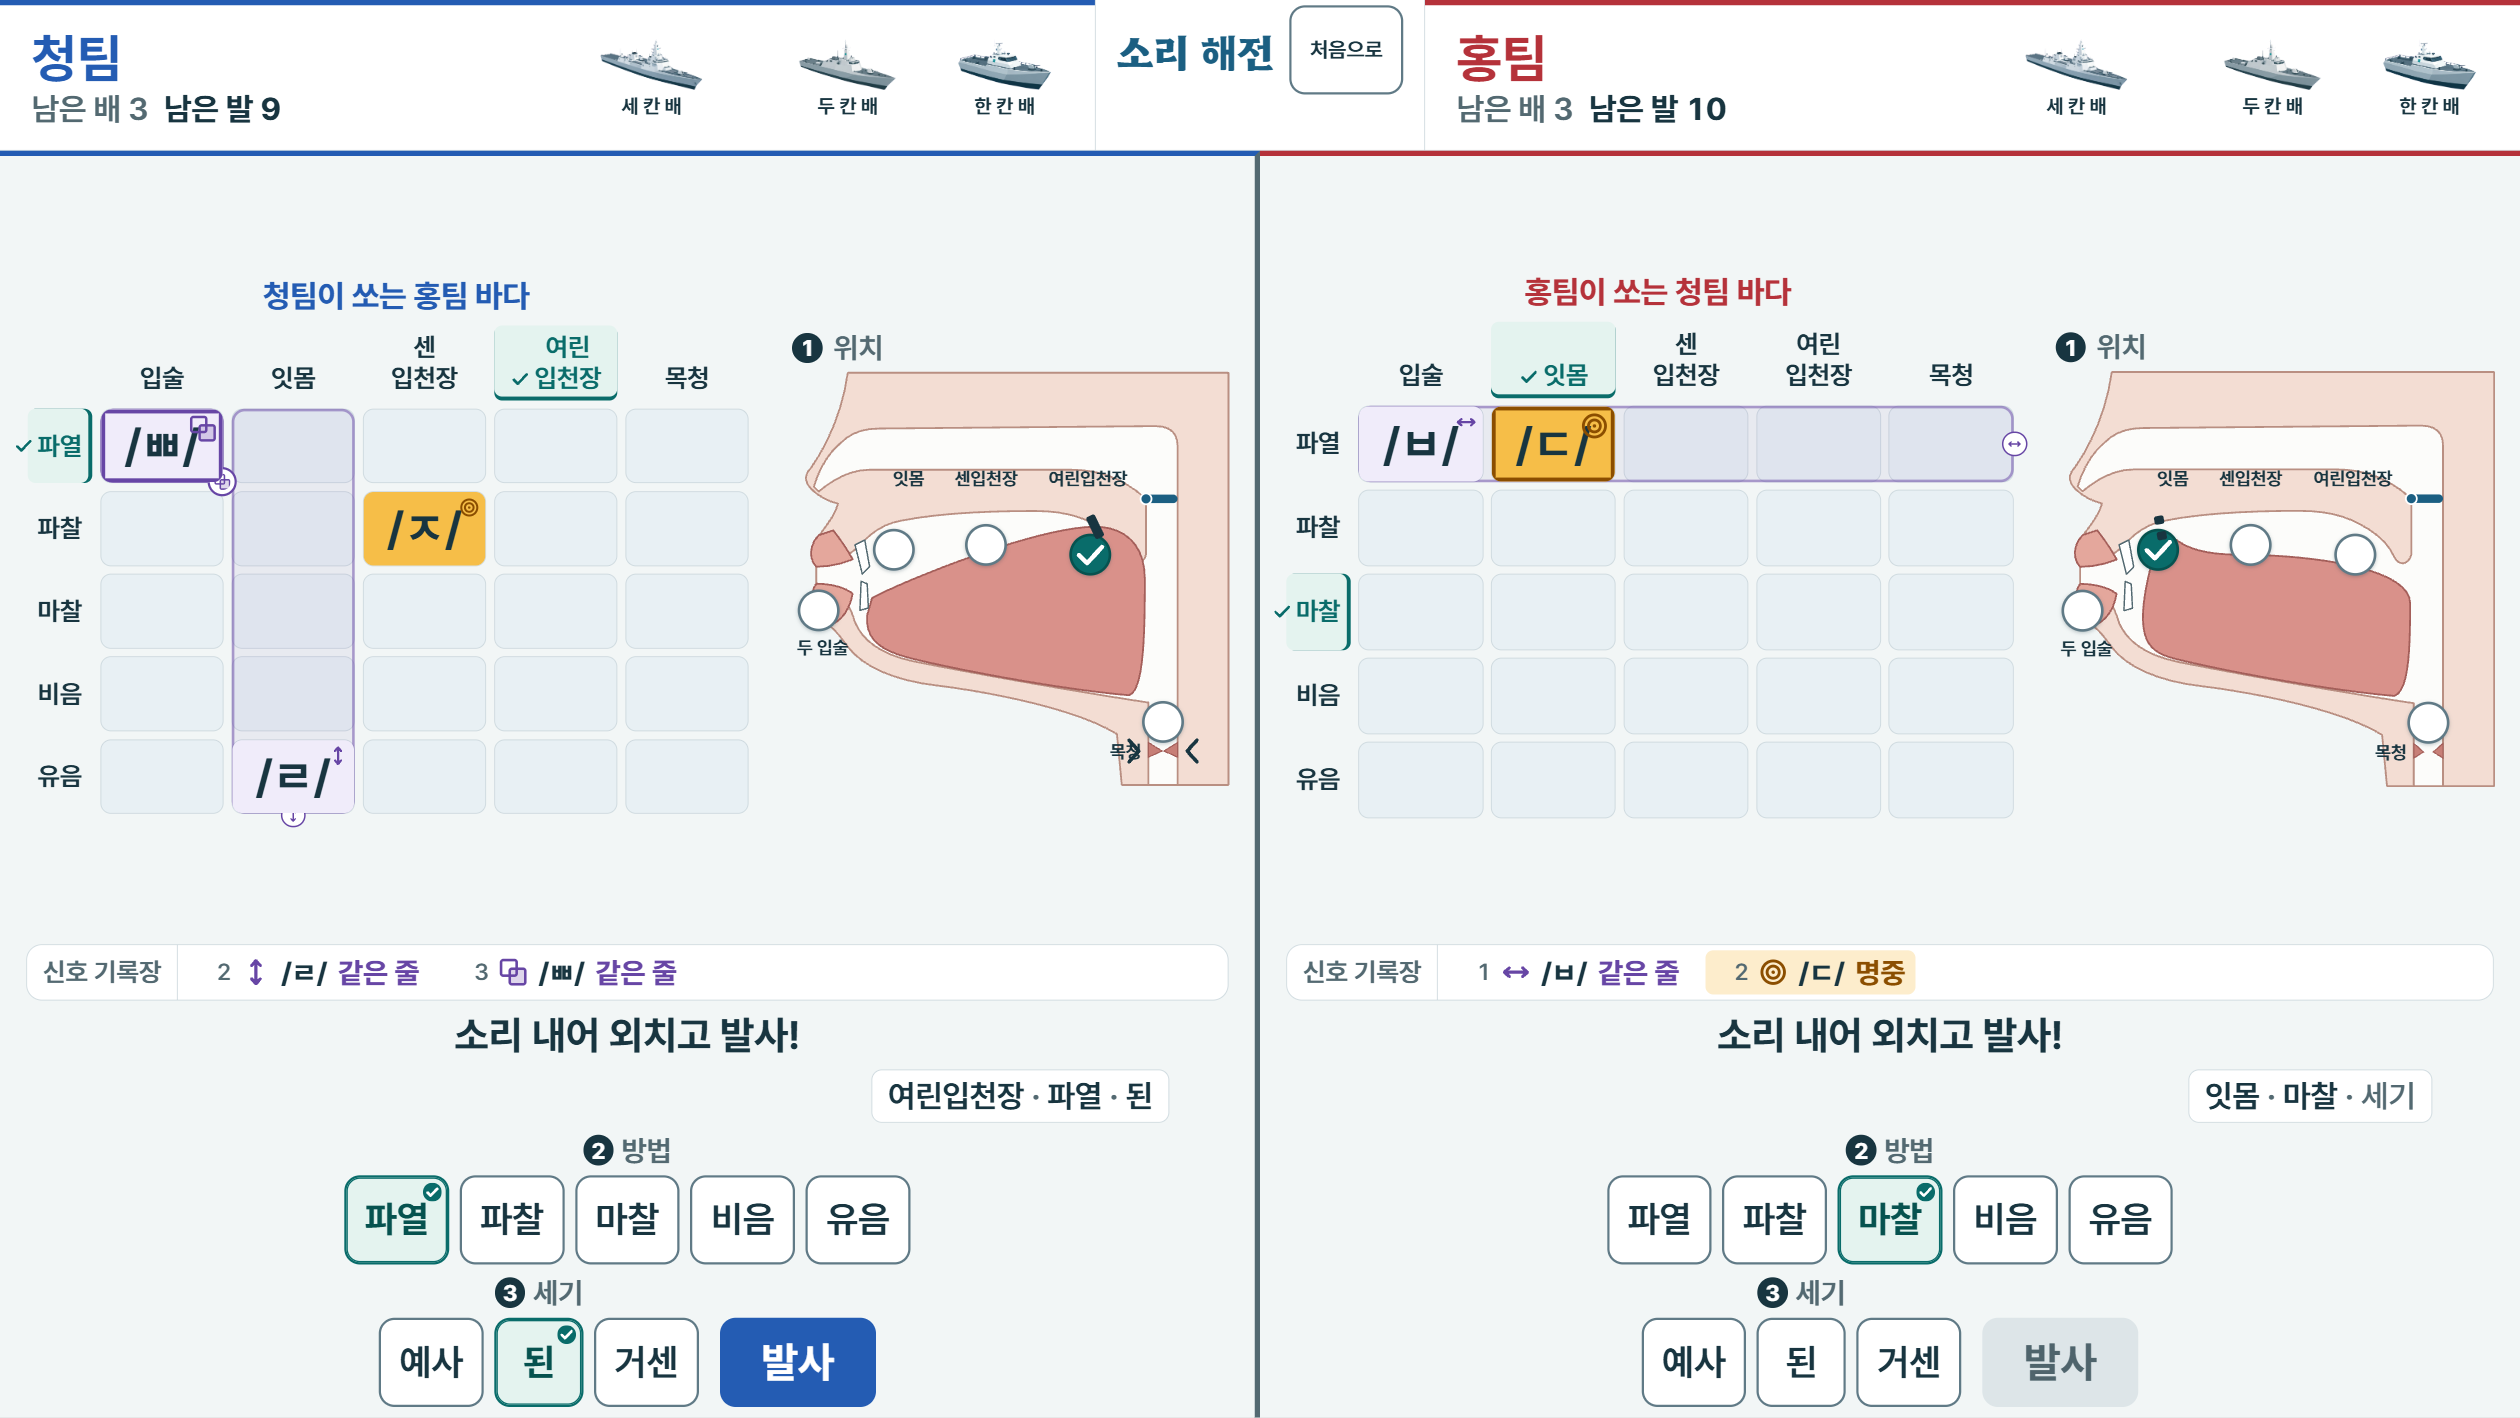
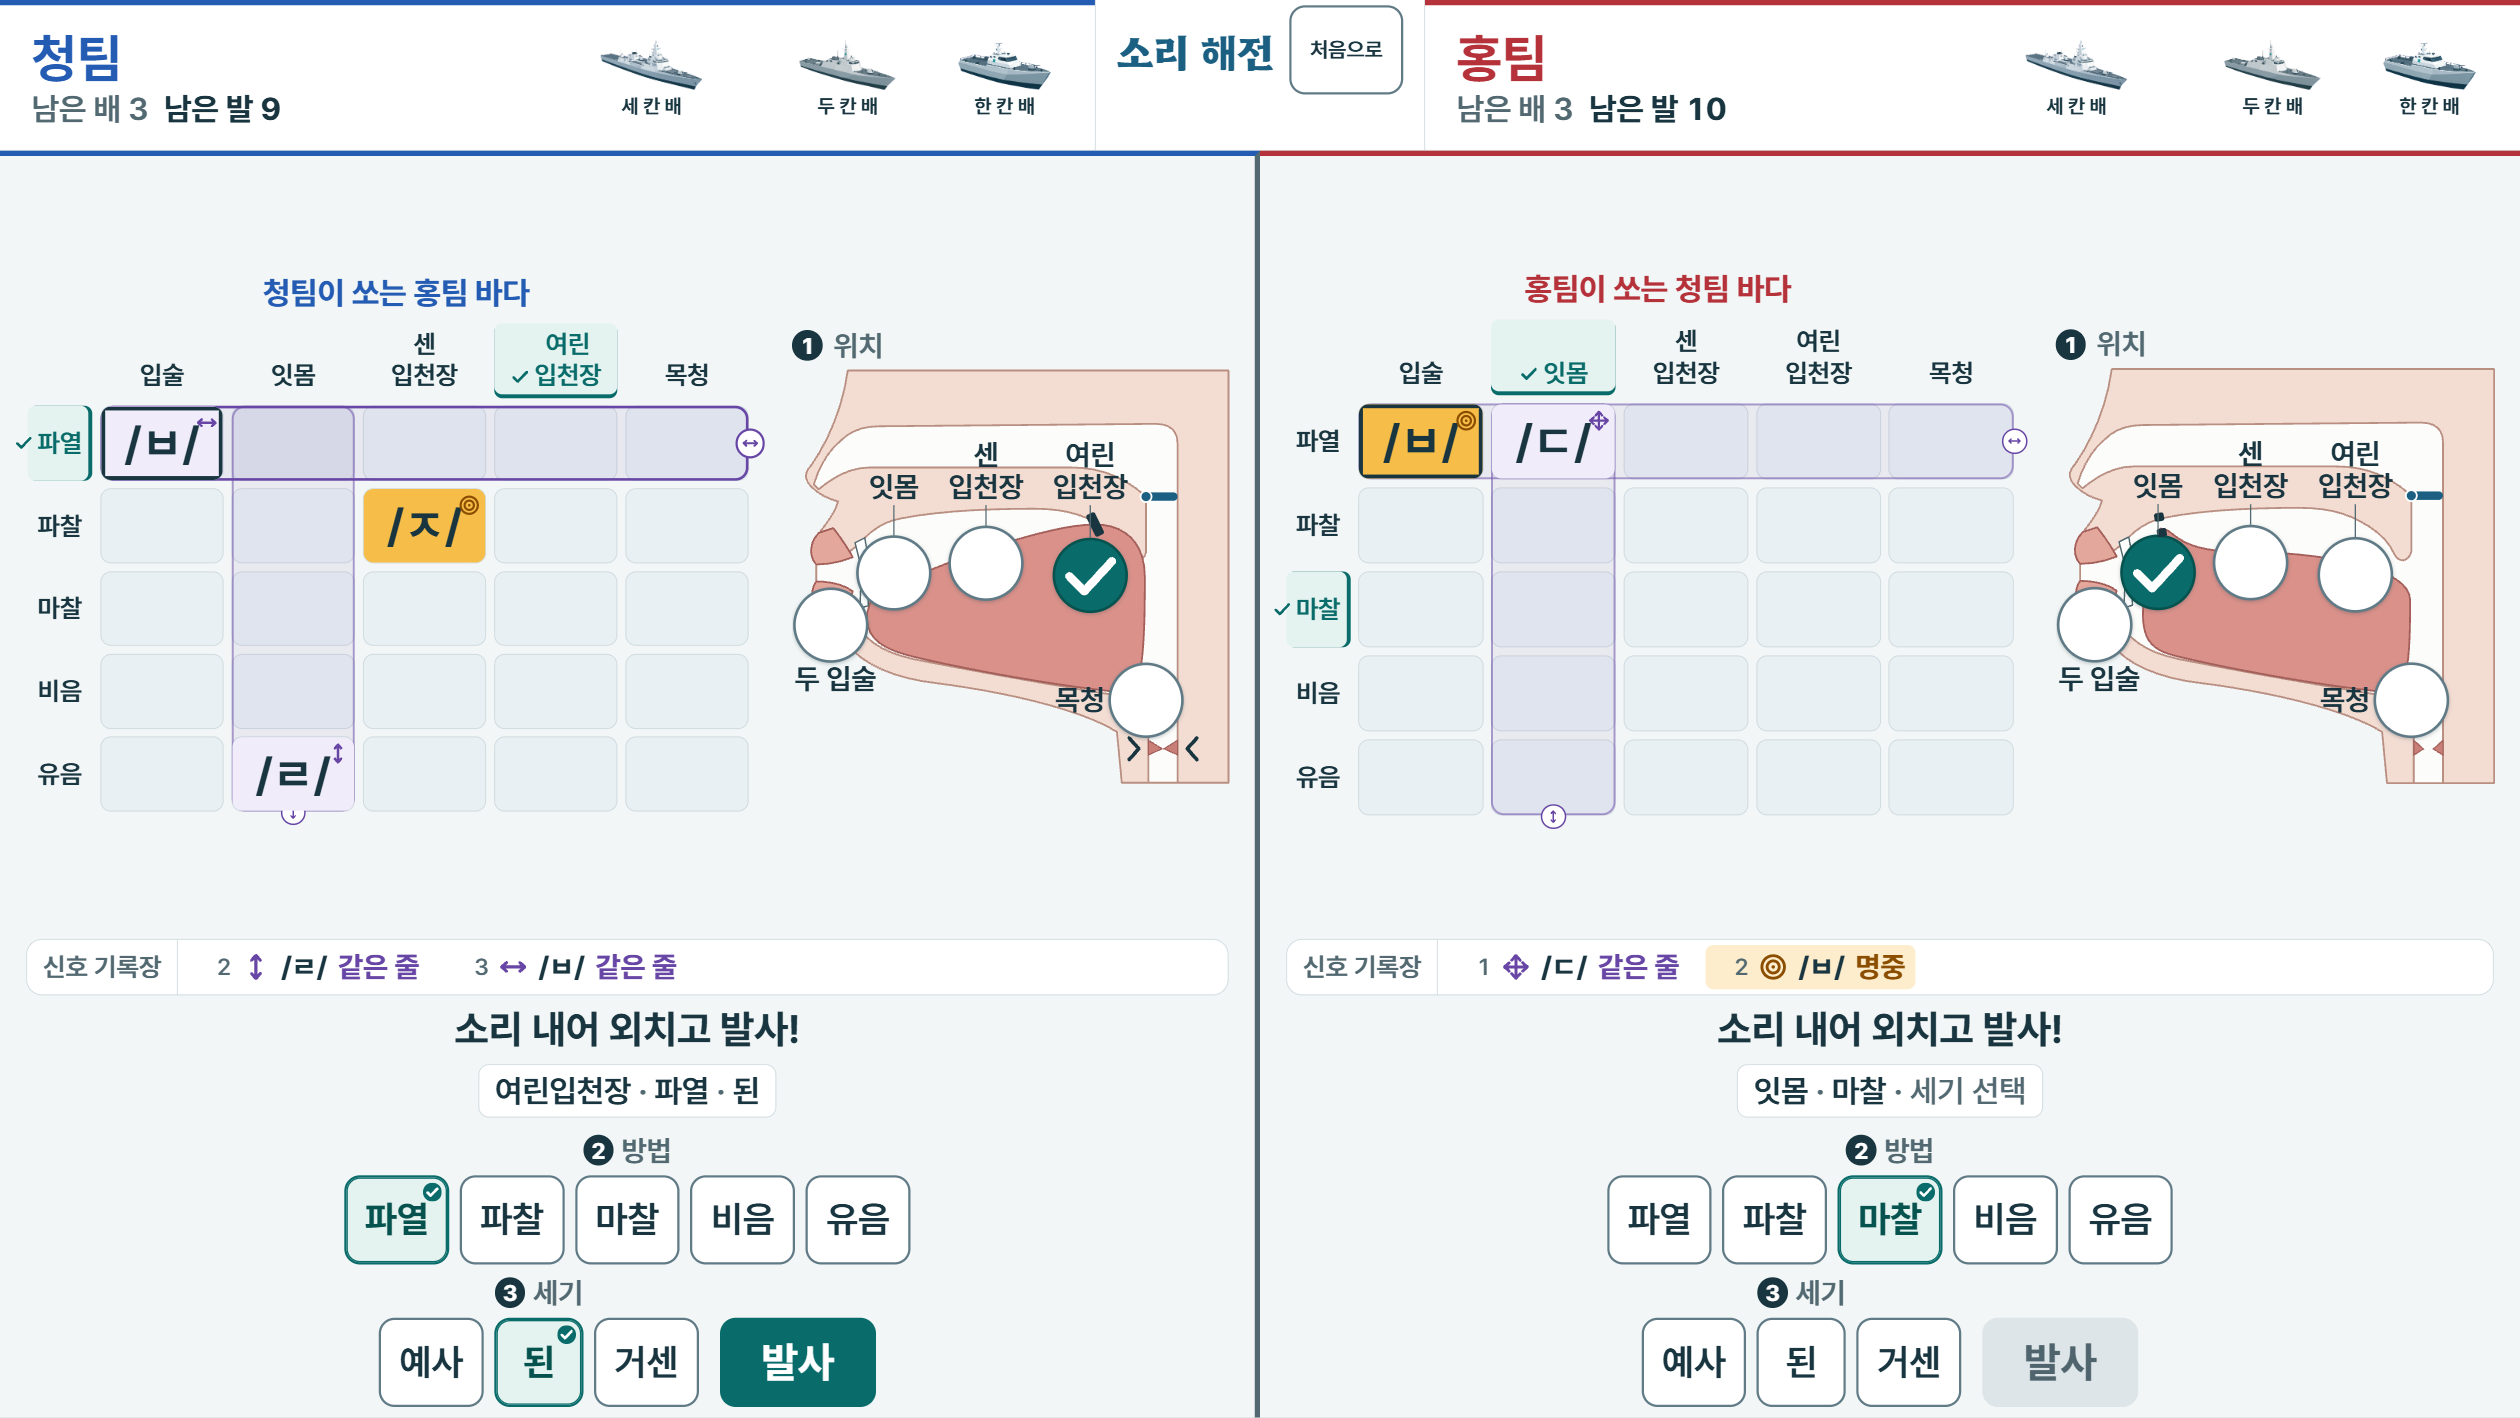
T17: 2차 검수 최종 반영(대결 단면도 폭, 휴대폰 요약 줄 가운데, 바다 아래 붙임)과 재검수 결과·캡처(design/review-2)

diff --git a/css/duel.css b/css/duel.css
@@ -217,7 +217,7 @@
 .station-blue { --team: var(--blue); --team-soft: var(--blue-soft); border-right: 4px solid var(--ink-2); }
 .station-red { --team: var(--red); --team-soft: var(--red-soft); } /* 발사는 두 팀 모두 공통 행동색(청록) — 팀색은 팀명·띠·소유 표시에만(2차 검수) */
 .duel-station.is-busy { background: var(--team-soft); } /* 그 팀이 쏘는 중(공기 흐름) — 그 자리만 잠김 */
-.duel-st-body { flex: 1 1 auto; min-height: 0; display: grid; gap: var(--s4); grid-template-columns: minmax(0, 1.7fr) minmax(0, 1fr); } /* [바다 ≈ 560 | 단면도 ≈ 330] */
+.duel-st-body { flex: 1 1 auto; min-height: 0; display: grid; gap: var(--s4); grid-template-columns: minmax(0, 1.5fr) minmax(0, 1fr); } /* [바다 ≈ 530 | 단면도 ≈ 360] — 56px 단추 사이 여유(2차 검수) */
 .duel-sea { position: relative; display: flex; flex-direction: column; gap: 4px; min-height: 0; min-width: 0; }
 .duel-sea-name { position: absolute; left: 0; right: 0; bottom: 100%; margin-bottom: 8px; font-size: calc(var(--ctl-label-fs) + 2px); font-weight: 700; text-align: center; line-height: 1.25; white-space: nowrap; overflow: hidden; text-overflow: ellipsis; color: var(--team); }
 .duel-board {

diff --git a/css/controls.css b/css/controls.css
@@ -172,7 +172,10 @@
 .ctl--portrait { gap: 6px; padding: 6px var(--s4) calc(8px + env(safe-area-inset-bottom, 0px)); --ctl-card-fs: 18px; --ctl-combo-fs: 16px; }
 .ctl--portrait .ctl-msg { font-size: 18px; }
 .ctl--portrait .ctl-deck { width: 100%; gap: 6px; }
-.ctl--portrait .ctl-comborow { justify-content: space-between; }
+/* 세로: [위치 단추 | 요약(화면 가운데) | 빈 칸] — 요약 줄이 안내·카드와 같은 중심선에 오게(2차 검수) */
+.ctl--portrait .ctl-comborow { display: grid; grid-template-columns: 1fr auto 1fr; justify-content: stretch; }
+.ctl--portrait .ctl-placebtn { justify-self: start; }
+.ctl--portrait .ctl-combo { justify-self: center; grid-column: 2; }
 .ctl--portrait.ctl--placebtn .ctl-placebtn {
   display: inline-flex; align-items: center; gap: 6px; flex: none;
   min-height: var(--touch); padding: 0 14px 0 10px;

diff --git a/css/practice.css b/css/practice.css
@@ -183,6 +183,8 @@
 .pr--portrait .pr-example-title { font-size: 17px; }
 .pr--portrait .pr-main { display: flex; flex-direction: column; gap: 0; padding: var(--s2) var(--s4); }
 .pr--portrait .pr-seacol { flex: 1 1 auto; padding: 0; background: transparent; border: 0; }
+/* 세로: 바다를 아래(조작부 쪽)에 붙여 마지막 줄과 안내 사이가 벌어지지 않게, 남는 높이는 위에서 받는다 */
+.pr--portrait .pr-sea .sb.sb-fit, .pr--portrait .pr-sea .sb-fit > .sb-over { align-content: end; }
 .pr--portrait .pr-mouthcard { display: none; }
 .pr--portrait .pr-dockwrap { background: var(--surface); border-top: 1px solid var(--divider); }
 /* 아래에서 올라오는 입안 단면도 패널(위쪽 반경 16, 떠 있는 패널 그림자 한 종류).

diff --git a/design/review-2.md b/design/review-2.md
@@ -1,0 +1,53 @@
+# 소리 해전 — 디자인 재검수(2차) 결과
+
+- 검수자: Codex CLI `gpt-6.1-sol`(1차 검수와 같은 모델), 읽기 전용, 캡처 이미지만 보고 판단
+- 대상: T17 디자인 개편 뒤 화면 8장(`design/review-2/*.png` — 1차와 같은 7개 보기 + 휴대폰 아래 패널)
+  title-1920 · practice-1920 · practice-phone-390 · practice-phone-sheet · duel-1920 · result-1920 · title-phone-390 · soundmap-tablet
+- 진행: 2차 1회 → '높음' 1건(입안 단추 크기·이름 연결) + '중간' 5건 반영 → 2차 2회(최종) → **남은 '높음' 없음**
+
+## 최종 검수(2차 2회) 원문
+
+1차보다 일러스트와 UI가 한 제품으로 읽힙니다. 색의 역할, 글꼴의 위계, 시작 화면의 주 행동, 결과 화면의 정보 순서는 대체로 정리됐습니다. 이번 수정으로 입안 단추도 훨씬 분명해졌고, 대결의 좌우 조작부와 휴대폰의 두 줄 헤더도 안정됐습니다. 남은 문제는 신호의 세부 의미 전달, 대결 입안 단추 사이의 여유, 휴대폰 조합 요약의 정렬입니다. 아래 수치는 축소 캡처를 실측한 값이 아니라 원래 뷰포트에 적용할 **CSS 구현 시작값**이며, 판단 범위는 첨부 정지 화면입니다.
+
+| 화면 | 심각도(높음/중간/낮음) | 무엇을 어떻게 바꿀지(구현 시작값 수치 포함) |
+|---|---|---|
+| `duel-1920` — 신호 기록장 | 중간 | 오른쪽의 네 방향 기호와 **‘같은 줄’** 문구만으로는 같은 행·열·칸을 구별하기 어렵습니다. 같은 줄 신호의 세부 문구를 **‘↔ 가로줄 / ↕ 세로줄 / ⊞ 같은 칸’**으로 나누고, 바다의 기호도 일치시키세요. 기호 **18px**, 기록 글자 **20px**, 기호와 문자 간격 **6px**부터 적용합니다. |
+| `duel-1920` — 입안 단추 | 중간 | 두 입술과 잇몸 단추가 대각선으로 바짝 붙어 있습니다. 크기는 확보됐지만 주변 여유가 부족합니다. 지름 **56px**를 유지하면서 단추 윤곽 사이를 최소 **12px**, 가능하면 **16px** 확보하세요. 입안 그림의 가로폭을 현재보다 **24~40px** 늘리고 단추 지름은 고정하는 방식부터 검토하면 됩니다. |
+| `practice-phone-390` — 조합 요약 | 중간 | **‘두 입술·파열’**이 여전히 오른쪽에 치우쳐 있어, 중앙의 안내와 방법 카드에서 시선이 벗어납니다. 현재 줄에서 ‘위치’ 단추는 왼쪽에 두고 요약은 **화면 중앙**에 맞추세요. 위치 단추 폭 **104px**, 요약 글자 **16px**, 높이 **28~32px**, 방법 카드와 간격 **8px**부터 적용합니다. |
+| `practice-phone-390` — 바다와 조작부 사이 | 낮음 | 마지막 바다 행과 하단 안내 사이의 빈 공간이 커서 관련 정보가 떨어져 보입니다. 바다 아래부터 안내까지 간격을 **24~40px**로 줄이고, 남는 높이는 바다 위쪽에서 받도록 정렬하세요. 바다 칸이나 터치 목표를 키울 필요는 없습니다. |
+| `title-phone-390` | 낮음 | 대결 안내의 기기 나열이 두 줄로 갈라지면서 주 행동 아래를 무겁게 만듭니다. **‘대결은 큰 가로 화면에서 해 주세요’**처럼 한 줄로 줄이세요. 글자 **14px**, 줄높이 **20px**, 주 행동과 안내 사이 **12px**, 안내와 보조 단추 사이 **16px**부터 적용합니다. |
+| `soundmap-tablet` | 낮음 | 자음표의 마찰 행은 음소가 두 개인데 세 개짜리 행과 비슷한 높이를 차지해 빈 공간이 남고, 왼쪽 패널 하단이 화면 밖으로 이어집니다. 마찰 행 높이를 **88~96px**부터 줄이고 `/ㅎ/`은 그 높이 안에서 중앙 정렬하세요. 현재 음소 글자 크기는 유지하고 행 간격은 **6px**, 패널 아래 여백은 **20px**로 시작합니다. |
+
+남은 '높음' 지적: 없음
+
+## 최종 검수 뒤 처리
+
+| 지적 | 처리 |
+|---|---|
+| 대결 입안 단추 사이 여유(중간) | 반영: 대결 자리의 [바다 | 단면도] 비율을 1.7:1 → 1.5:1로 바꿔 단면도 폭을 약 30px 늘림(단추 지름 56px 유지). |
+| 휴대폰 조합 요약 정렬(중간) | 반영: 세로 조작부 요약 줄을 [위치 단추 | 요약(가운데) | 빈 칸] 격자로 바꿔 화면 가운데에 맞춤. |
+| 휴대폰 바다와 안내 사이 빈 공간(낮음) | 반영: 세로에서 바다를 아래(조작부 쪽)에 붙이고 남는 높이는 위에서 받게 함. |
+| 대결 기록장의 '같은 줄' 세부 문구(가로줄/세로줄/같은 칸, 중간) | 보류: 신호 이름은 네 가지로 고정(handoff 4 — '신호 이름을 다시 늘리지 말 것'). 방향은 이미 기호(↔ · ↕ · 겹친 네모)로 판과 기록장에서 같게 보인다. |
+| 휴대폰 대결 안내 문구 줄이기(낮음) | 보류: 문구는 spec 2절에 정해진 한 줄("대결은 칠판이나 태블릿·노트북의 가로 화면에서 해 주세요"). 줄바꿈만 고르게(text-wrap: balance) 함. |
+| 소리 지도 마찰 행 높이(낮음) | 보류: 세기 자리(예사·된·거센)를 모든 행에서 같은 위치에 두어 표를 읽기 쉽게 하려고 세 자리 행 높이를 유지. |
+
+## 참고: 2차 1회 검수 원문
+
+1차에서 지적한 제품 분위기의 불일치는 상당히 해소됐습니다. 새 바다·배 에셋이 UI 팔레트와 어울리고, 서체와 네 가지 신호의 구분도 명료해졌습니다. 시작 화면의 주 행동, 휴대폰 위치 패널, 대결의 좌우 배치, 결과 화면의 정보 순서, 소리 지도의 음소 대비·크기는 해결된 것으로 보입니다. 남은 핵심은 **입안에서 누를 단추와 위치 이름의 대응**, 특히 대결 화면의 작은 도식입니다. 최근 결과의 테두리와 조합 요약도 화면마다 조금씩 달라 일관성을 더 다듬어야 합니다.
+
+아래 수치는 **CSS px 기준 구현 시작값**입니다. 실제 터치 판정 범위, 동시 터치, 성능, 애니메이션은 판단에서 제외했습니다.
+
+| 화면 | 심각도(높음/중간/낮음) | 무엇을 어떻게 바꿀지(구현 시작값 수치 포함) |
+|---|---|---|
+| practice-1920 · duel-1920 · practice-phone-sheet | **높음** | 입안의 원형 단추가 도식에 비해 작고, 위쪽 위치 이름과 떨어져 있습니다. 특히 대결에서는 이름까지 작아져 누를 곳을 식별하기 어렵습니다. **보이는 단추 지름을 휴대폰 44px, 연습 칠판 48px, 대결 칠판 56px**부터 조정하세요. 위치 이름은 휴대폰 16px·칠판 22~24px. 이름을 해당 단추 가까이 옮기거나 1px 연결선으로 대응시키고, 확대된 단추의 중심 간격은 최소 64px를 확보하세요. |
+| practice-1920 · practice-phone-390 · duel-1920 | 중간 | 최근 발사 칸의 외곽선이 회색·보라·짙은 잉크색으로 달라, 신호 종류와 ‘마지막 발사’ 강조가 다시 섞입니다. **최근 1발은 공통 잉크색 2px 안쪽 테두리**, 같은 줄 범위는 보라색 2px 선과 8% 농도 배경으로 분리하세요. 현재 선택은 지금의 청록 축 표시를 유지하고, 결과 기호는 칸마다 우상단 한 곳에 16~18px로 통일하세요. |
+| practice-1920 · duel-1920 | 중간 | 조합 요약이 조작부 오른쪽에 떨어져 있어 위치→방법→세기→발사 흐름에서 시선이 벗어납니다. **요약을 방법 선택 바로 위, 조작부와 같은 중심선**에 놓고 간격을 12px로 시작하세요. 대결 오른쪽의 ‘잇몸 · 마찰 · 세기’는 미선택 상태가 불분명하므로 ‘잇몸 · 마찰 · **세기 선택**’으로 표시하세요. |
+| duel-1920 | 중간 | 청팀의 발사 단추가 팀색 파랑을 사용해, 공통 행동색 청록과 역할이 달라집니다. 양 팀의 활성 발사를 **#096C6A**, 비활성 상태를 **#DDE6E9**로 통일하세요. 팀색은 팀명·팀 식별 띠·바다 소유 설명에만 남기면 됩니다. |
+| practice-phone-390 · practice-phone-sheet | 중간 | 상단 한 줄에 처음으로·단계·배 그림·남은 턴이 밀집합니다. 배 그림은 작고 끝부분도 잘려 보여 남은 배를 파악하기 어렵습니다. **헤더를 주 정보 52px + 배 정보 24px의 두 줄**로 나누세요. 첫 줄은 처음으로·단계·턴, 둘째 줄은 ‘남은 배 3’과 배 그림으로 구성하고, 그림 사이 간격은 8px부터 적용하세요. |
+| soundmap-tablet | 중간 | 스크롤이 있는 참고 화면인데 상단에 게임으로 돌아가는 동작이 보이지 않습니다. **제목 행 오른쪽에 높이 44~48px의 ‘처음으로’ 단추**를 두세요. 제목 행은 높이 64~72px로 고정해, 표 아래까지 내려가도 복귀 경로를 유지하세요. |
+
+남은 높은 심각도 항목은 다음입니다.
+
+- 입안 위치 단추의 시각적 크기와 명칭 연결 부족 — 특히 대결 칠판 화면.
+
+남은 '높음' 지적: 있음
